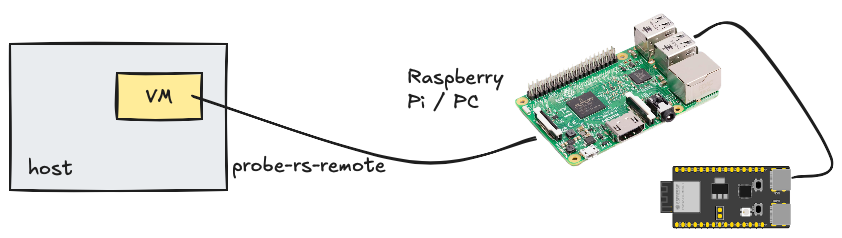
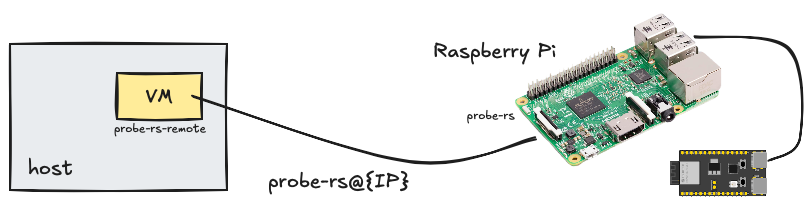
[rust+emb] Revised information about 'probe-rs' remote; allowing custom 'PROBE_RS_REMOTE'; leaves the VM stopped

diff --git a/rust+emb/README.md b/rust+emb/README.md
@@ -1,10 +1,9 @@
-# Rust development with Embassy
+# Rust for embedded development
 
 Intended for [Embassy](https://embassy.dev) development, this VM sets up:
 
-- RISC V Rust compilation targets (C3, C6)
-- [probe.rs](https://probe.rs/) remote connection to a computer with `probe-rs` installed
-- (optional) Xtensa Rust toolchain and targets
+- Rust compilation targets (ESP32-C3, ESP32-C6)
+- [probe-rs-remote](https://github.com/lure23/probe-rs-remote) connection to a computer with [`probe-rs`](https://probe.rs) installed
 
 <!-- tbd.
 - `nightly` toolchain, as long as it's needed/favoured by Embassy
@@ -16,47 +15,39 @@ Intended for [Embassy](https://embassy.dev) development, this VM sets up:
 ![](.images/probe-rs-setup.png)
 
 
-You'll be connecting the development kit (e.g. [ESP32-C3-DevKitM-1](https://docs.espressif.com/projects/esp-idf/en/v5.2/esp32c3/hw-reference/esp32c3/user-guide-devkitm-1.html#esp32-c3-devkitm-1)) to *another* computer; either a Raspberry Pi or a PC, which needs to have `probe-rs` installed. 
+You'll be connecting the development kit (e.g. [ESP32-C6-DevKitC](https://docs.espressif.com/projects/esp-dev-kits/en/latest/esp32c6/esp32-c6-devkitc-1/user_guide.html#esp32-c6-devkitc-1-v1-2)) to *another* computer; either a Raspberry Pi or a Linux PC, which needs to have `probe-rs` installed.
 
-This gives the benefit that you don't need to physically connect your development board (with custom electronic experiments) to your primary computer. <small>*Plus, with using Multipass VM's not having USB sharing, you'll need a way to reach for such devices over Ethernet/WLAN, anyways.*</small>
+This gives the benefit that your development board is *airgapped* from the development system, where you run your IDE etc. If something were to go wrong with electronics (read: SMOKE!), you'll appreciate this!
+
+><small>As a side note, with Multipass we'd need some way of passing USB over IP anyhow, since Multipass does not support USB device mapping.</small>
 
 
-## Prelude
+## Preparations
 
-See [`../rust/README.md`](../rust/README.md) for instructions on generic tooling.
+If you already have the assisting computer (Raspberry Pi) set up, great! Feed its `ssh` user and IP to the creating script, below.
+
+If you don't, you can either:
+
+- visit [`probe-rs-remote`](https://github.com/lure23/probe-rs-remote) 
+- ..or let the default (`probe-rs@192.168.1.199`) be used for now and edit it later in VM's `~/.bashrc`.
+
 
 ## Usage
 
 Create the VM by:
 
 ```
-$ rust+emb/prep.sh
+$ [PROBE_RS_REMOTE={user@ip}] rust+emb/prep.sh
 ...
-Multipass IP (rust-emb): 192.168.64.101
+VM is ready.
 
-probe-rs 0.24.0 (git commit: 6fc653a)
 ```
 
+<!-- #hidden
 ### Xtensa based chips
 
 To enable Xtensa targets, add `XTENSA=1` before the command. Be aware that this consumes ~1.5GiB more disk space from the image.
-
-
-## Preparing the target device
-
-Follow the instructions in the [`probe-rs-remote`](https://github.com/lure23/probe-rs-remote) (GitHub) repo, to set up the remote machine.
-
-Before using `probe-rs`, edit the `~/.bashrc` within the VM image, to have it point to the correct destination. Other than this, `probe-rs` remote will be installed on your VM, automatically.
-
-```
-$ nano ~/.bashrc
-...
-# EDIT AND UNCOMMENT THIS
-#export PROBE_RS_REMOTE=probe-rs@192.168.1.199
-```
-
-<!-- tbd. `prep` *SHOULD* ask for the destination user/IP right up front, interactively! -->
-
+-->
 
 
 ## Mounting work folders
@@ -87,26 +78,42 @@ Say you have a folder `/Users/mike/Git/some-project`. This is how to share it wi
 ```
 $ rustup update
 ```
-   
-```
-$ cargo install probe-rs-tools
-```
-
-### After kernel update
-
-You _must_ update `linux-modules-extra-$(uname -r)` _manually_ when kernel changes. See the instructions in [`rust+emb/linux/usbip-drivers.sh`](./rust+emb/linux/usbip-drivers.sh).
-
->Note: You may also need to restart the VM, i.e. (on the host):
->
->```
->$ multipass stop rust-emb; multipass shell rust-emb
->```
 
 ### `probe-rs-remote`
 
-`~/bin/probe-rs-remote` script currently needs manual care, if you wish to bring updates to it. See [`linux/probe-rs-remote.sh`](linux/probe-rs-remote.sh).
+`~/bin/probe-rs-remote.sh` script currently needs manual care, if you wish to bring updates to it.
 
 
+## What's not in the box
+
+Once you have `cargo` and suitable toolchains installed, adding more tools is easy. Here are some examples that particular projects might ask you to add:
+
+- `clang`
+
+	A compiler needed if projects contain C/C++ code. Install by:
+
+	```
+	$ sudo apt install llvm-dev libclang-dev clang
+	```
+
+- `bindgen` CLI
+
+	Generator for Rust/C interfaces. Install by:
+	
+	```
+	$ cargo install bindgen-cli
+	```
+
+## Next
+
+```
+$ multipass shell rust-emb
+```
+
+
+<!--
 ## References
 
 - [`probe-rs` docs](https://probe.rs/docs/)
+-->
+

diff --git a/rust/README.md b/rust/README.md
@@ -6,7 +6,6 @@ Has:
 
 - `rustc`
 - `cargo`
-- + `usbip` client installed
 
 Updating (within the sandbox):
    
